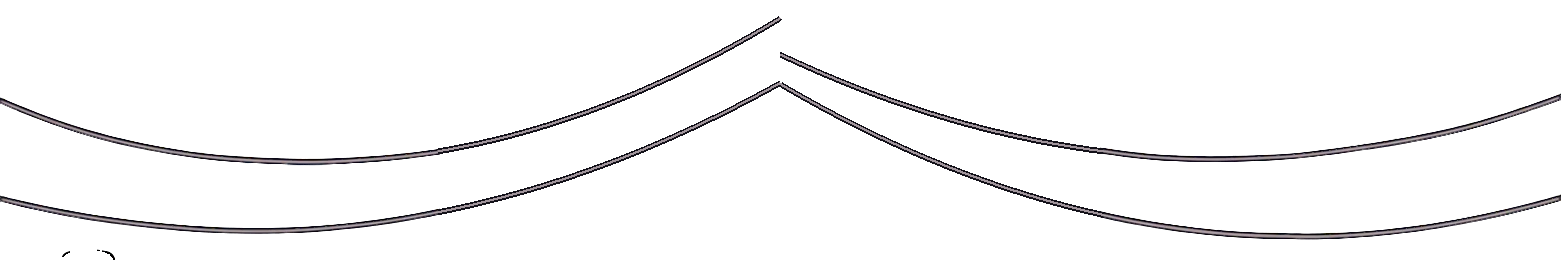
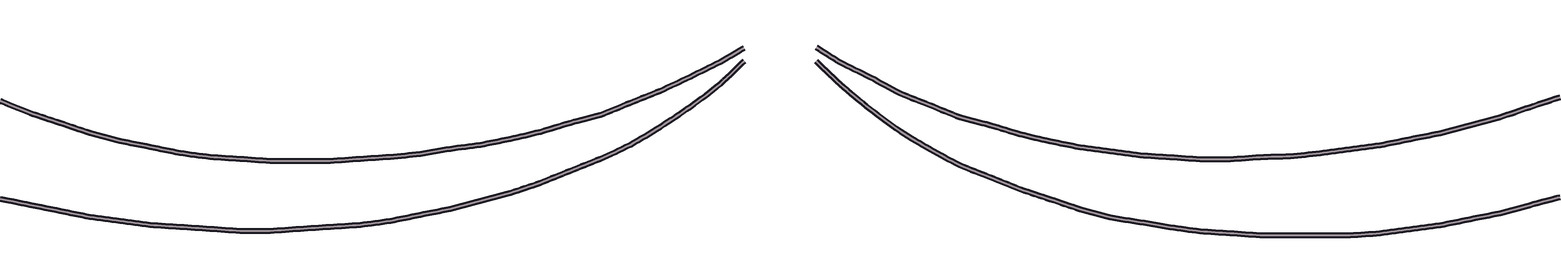
크리스마스 광장 전구 줄: 그림에서 떼어 낸 줄 대신 전구 길(strings.paths)에서 새로 그림 — 불빛이 줄 위에 딱 맞게 (tools/make_plaza_wires.py, web/plaza/props/lights)
Claude-Session: https://claude.ai/code/session_013gkWdjqDwwMfs8SrUNHEXQ

Changed region(s): [[0.0, 0.1098, 1.0, 0.9608], [0.492, 0.0549, 0.5227, 0.1098], [0.0615, 0.9608, 0.0922, 0.9882]]

diff --git a/tools/make_plaza_wires.py b/tools/make_plaza_wires.py
@@ -1,0 +1,46 @@
+#!/usr/bin/env python3
+"""광장 전구 줄 소품(web/plaza/props/lights-day·night.webp)을 전구 자리에서 새로 그린다 (2026-11-16).
+그림에서 떼어 낸 줄은 트리에 가렸던 곳이 비고, 이어 그려도 전구 불빛(scene.json strings.paths — 코드가 그 길 위에 전구를 찍음)과
+조금씩 어긋나 보였다. 그래서 줄을 그 길 자체로 그린다: 길 점들을 부드럽게(Catmull-Rom) 이어 진한 외곽 + 밝은 속선, 원래 그림의 줄 모양.
+트리 뒤 겹이라 트리에 닿는 끝은 트리가 가린다. 그림 자리는 scene.json props lights.at(왼쪽 위)."""
+from pathlib import Path
+from PIL import Image, ImageDraw
+import json
+
+ROOT = Path(__file__).resolve().parent.parent
+cfg = json.loads((ROOT / 'web/plaza/scene.json').read_text())
+paths = cfg['strings']['paths']
+lights = next(p for p in cfg['props']['list'] if p['id'] == 'lights')
+W = cfg['size'][0]
+ax, ay = lights['at']
+SS = 3  # 3배로 그려 줄여서 가장자리를 부드럽게
+OUTER, INNER = (20, 18, 26, 255), (160, 148, 155, 255)
+OW, IW = 6, 2
+
+
+def smooth(pts, n=8):
+    out = []
+    P = [pts[0]] + pts + [pts[-1]]
+    for i in range(1, len(P) - 2):
+        p0, p1, p2, p3 = P[i - 1], P[i], P[i + 1], P[i + 2]
+        for k in range(n):
+            t = k / n
+            out.append(tuple(0.5 * ((2 * p1[j]) + (-p0[j] + p2[j]) * t + (2 * p0[j] - 5 * p1[j] + 4 * p2[j] - p3[j]) * t * t
+                                    + (-p0[j] + 3 * p1[j] - 3 * p2[j] + p3[j]) * t ** 3) for j in range(2)))
+    out.append(tuple(pts[-1]))
+    return out
+
+
+ys = [y for p in paths for _, y in p]
+H = int(max(ys) - ay + 20)
+im = Image.new('RGBA', (W * SS, H * SS), (0, 0, 0, 0))
+d = ImageDraw.Draw(im)
+lines = [[((x - ax) * SS, (y - ay) * SS) for x, y in smooth(p)] for p in paths]
+for ln in lines:
+    d.line(ln, fill=OUTER, width=OW * SS, joint='curve')
+for ln in lines:
+    d.line(ln, fill=INNER, width=IW * SS, joint='curve')
+im = im.resize((W, H), Image.LANCZOS)
+for n in ('day', 'night'):  # 밤 그림의 줄도 같은 색
+    im.save(ROOT / f'web/plaza/props/lights-{n}.webp', 'WEBP', lossless=True, method=6)
+print('lights', im.size, '자리', [ax, ay], '줄', len(paths))

diff --git a/tools/make_plaza_props.py b/tools/make_plaza_props.py
@@ -1,5 +1,6 @@
 #!/usr/bin/env python3
-"""사계절 광장 — 지금 크리스마스 광장 그림에서 소품을 떼어 낸다 (PLAZA_SEASONS_PLAN.md 4장).
+"""(전구 줄 lights는 이 뒤에 tools/make_plaza_wires.py로 전구 길에서 새로 그림)
+사계절 광장 — 지금 크리스마스 광장 그림에서 소품을 떼어 낸다 (PLAZA_SEASONS_PLAN.md 4장).
 
 크리스마스 그림(web/plaza/xmas-day·night.webp)과 겨울 빈 광장(web/plaza/winter-day·night.webp — tools/make_plaza_winter.py)의
 차이로 소품 모양(마스크)을 낮 그림에서 잡고, 같은 마스크로 낮·밤 크리스마스 그림을 잘라 web/plaza/props/<id>-day·night.webp로.
